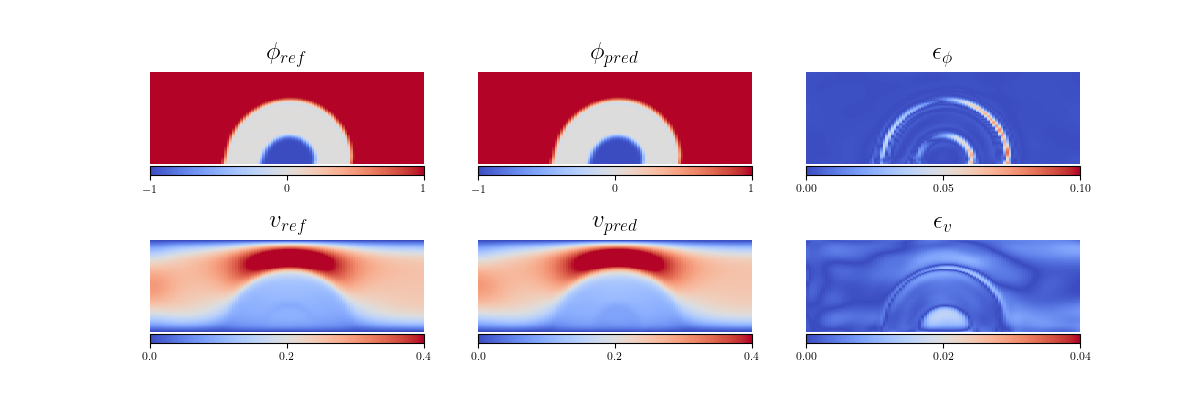
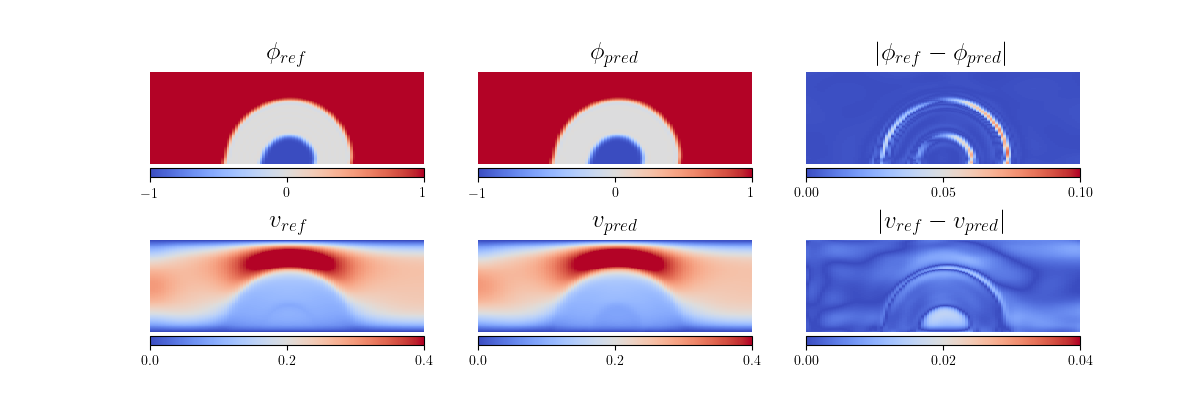
.

diff --git a/Thrombus/Plot/K_phi/fig_7.py b/Thrombus/Plot/K_phi/fig_7.py
@@ -51,7 +51,7 @@ def main():
     ## parameters
     device = torch.device(f"cuda:{0}" if torch.cuda.is_available() else "cpu")
     print(device, flush=True)
-    model_path = '../Inv_K/test_10/CheckPts/model_chkpts.pt'
+    model_path = '../../Inv_K/test_10/CheckPts/model_chkpts.pt'
 
     file_start = 0
     file_end = 30
@@ -69,8 +69,8 @@ def main():
     y_data = np.zeros((4, file_end-file_start, num_x1, num_x2))
     t_step = 0
     for file_id in range(file_start, file_end):
-        name_u = '../../Data/CH/phase_field_xiaoning/K_1_0001/dat/half' + str(file_id) + '.dat'
-        name_phi = '../../Data/CH/phase_field_xiaoning/K_1_0001/dat_phase/halfp' + str(file_id) + '.dat'
+        name_u = '../../../Data/CH/phase_field_xiaoning/K_1_0001/dat/half' + str(file_id) + '.dat'
+        name_phi = '../../../Data/CH/phase_field_xiaoning/K_1_0001/dat_phase/halfp' + str(file_id) + '.dat'
         data_u = np.loadtxt(name_u)
         data_phi = np.loadtxt(name_phi)
 
@@ -134,25 +134,14 @@ def main():
     K_step = np.zeros((101))
     K_step[50:] = 1
 
-    loss = np.loadtxt('../Inv_K/test_10/loss.his')
+    loss = np.loadtxt('../../Inv_K/test_10/loss.his')
 
     ## plotting
-    fig = plt.figure(constrained_layout=False, figsize=(9, 8))
-    gs = fig.add_gridspec(2, 1)
-
+    fig = plt.figure(constrained_layout=True, figsize=(6, 3))
+    gs = fig.add_gridspec(1, 1)
     gs0 = gs[0].subgridspec(1, 2)
-    gs1 = gs[1].subgridspec(2, 3) 
-
     ax1 = fig.add_subplot(gs0[0, 0])
     ax2 = fig.add_subplot(gs0[0, 1])
-
-    ax3 = fig.add_subplot(gs1[0, 0])
-    ax4 = fig.add_subplot(gs1[0, 1])
-    ax5 = fig.add_subplot(gs1[0, 2])
-
-    ax6 = fig.add_subplot(gs1[1, 0])
-    ax7 = fig.add_subplot(gs1[1, 1])
-    ax8 = fig.add_subplot(gs1[1, 2])
 
     ## plot [0, 1]
     ax1.plot(loss, color="blue",label='$Loss$')
@@ -164,6 +153,7 @@ def main():
     ax1.set_xlabel('epoches', fontsize=18)
     ax1.set_ylabel('Loss', fontsize=18, rotation="horizontal")
     ax1.yaxis.set_label_coords(0.0,1.02)
+    ax1.set_aspect('auto')
 
     ## plot [0, 0]]
     ax2.step(x, K_step, linestyle="--", color="black",label='$K_{ref}$')
@@ -178,6 +168,19 @@ def main():
     ax2.grid()
     ax2.legend(loc="best")
     ax2.set_aspect(2)
+
+    fig.savefig('fig_K_phi.png')
+    plt.close()
+
+    ## fig 2
+    fig = plt.figure(constrained_layout=False, figsize=(12, 4))
+    gs1 = gs[0].subgridspec(2, 3) 
+    ax3 = fig.add_subplot(gs1[0, 0])
+    ax4 = fig.add_subplot(gs1[0, 1])
+    ax5 = fig.add_subplot(gs1[0, 2])
+    ax6 = fig.add_subplot(gs1[1, 0])
+    ax7 = fig.add_subplot(gs1[1, 1])
+    ax8 = fig.add_subplot(gs1[1, 2])
 
     ## ax3
     v_phi = np.linspace(-1, 1, 3)[:,None]
@@ -219,7 +222,7 @@ def main():
                 loc='lower center',
                 borderpad=-1,
                 )
-    ax5.set_title('$\epsilon_{\phi}$', fontsize=18)
+    ax5.set_title('$|\phi_{ref}-\phi_{pred}|$', fontsize=18)
     fig.colorbar(h, ax=ax5, ticks=v_error, cax = axins, orientation='horizontal')
 
     ## ax6
@@ -259,12 +262,13 @@ def main():
                 loc='lower center',
                 borderpad=-1,
                 )
-    ax8.set_title('$\epsilon_{v}$', fontsize=18)
+    ax8.set_title('$|v_{ref}-v_{pred}|$', fontsize=18)
     fig.colorbar(h, ax=ax8, ticks=v_error, cax=axins, orientation='horizontal')
 
-    plt.gcf().text(0.05, 0.45, "(c)", fontsize=14)
+    # plt.gcf().text(0.05, 0.45, "(c)", fontsize=18)
 
-    fig.savefig('fig_7.png')
+    # plt.tight_layout()
+    fig.savefig('fig_loss_K_phi.png')
     plt.close()
 
 if __name__ == '__main__':

diff --git a/Thrombus/Plot/K_comp/fig_3.py b/Thrombus/Plot/K_comp/fig_3.py
@@ -1,18 +1,11 @@
 """
 Author: Minglang Yin
 """
-
-import sys
-import os
-sys.path.insert(0,'../../Utils')
-
 import torch
 import torch.nn as nn
 import numpy as np
 import matplotlib.pyplot as plt
 import matplotlib.gridspec as gridspec
-
-from plotting import newfig, savefig
 from mpl_toolkits.axes_grid1.inset_locator import inset_axes
 
 import matplotlib
@@ -60,7 +53,7 @@ def main():
     ## parameters
     device = torch.device(f"cuda:{0}" if torch.cuda.is_available() else "cpu")
     print(device, flush=True)
-    model_path = '../Inv_K/test_5/CheckPts/model_chkpts.pt'
+    model_path = '../../Inv_K/test_8/CheckPts/model_chkpts.pt'
 
     file_start = 0
     file_end = 20
@@ -80,8 +73,8 @@ def main():
     y_data = np.zeros((4, file_end-file_start, num_x1, num_x2))
     t_step = 0
     for file_id in range(file_start, file_end):
-        name_u = '../../Data/CH/phase_field_xiaoning/K_001/dat/half' + str(file_id) + '.dat'
-        name_phi = '../../Data/CH/phase_field_xiaoning/K_001/dat_phase/halfp' + str(file_id) + '.dat'
+        name_u = '../../../Data/CH/phase_field_xiaoning/K_0001/dat/half' + str(file_id) + '.dat'
+        name_phi = '../../../Data/CH/phase_field_xiaoning/K_0001/dat_phase/halfp' + str(file_id) + '.dat'
         data_u = np.loadtxt(name_u)
         data_phi = np.loadtxt(name_phi)
 
@@ -180,7 +173,7 @@ def main():
                 borderpad=-1,
                 )
     fig.colorbar(_h, ax=_ax, ticks=phi_error, cax = axins, orientation='horizontal')
-    _ax.set_title('$\epsilon_{\phi}$', fontsize=18)
+    _ax.set_title('$|\phi_{ref}-\phi_{pred}|$', fontsize=18)
 
     
     ## plotting velocity
@@ -229,7 +222,7 @@ def main():
                 borderpad=-1,
                 )
     fig.colorbar(_h, ax=_ax, ticks=vel_error, cax = axins, orientation='horizontal')
-    _ax.set_title('$\epsilon_{v}$', fontsize=18)
+    _ax.set_title('$|v_{ref}-v_{pred}|$', fontsize=18)
 
     plt.savefig('fig_3.png')
     plt.close()
